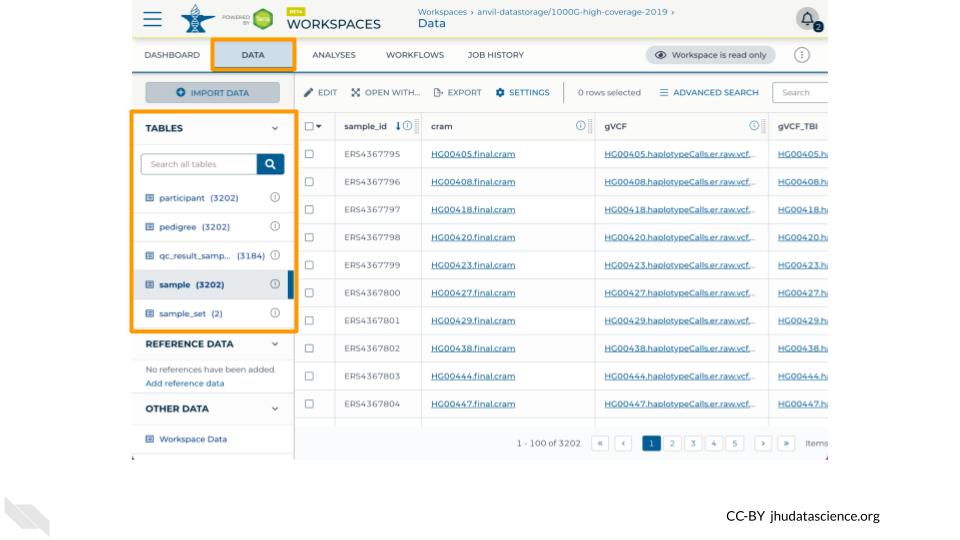
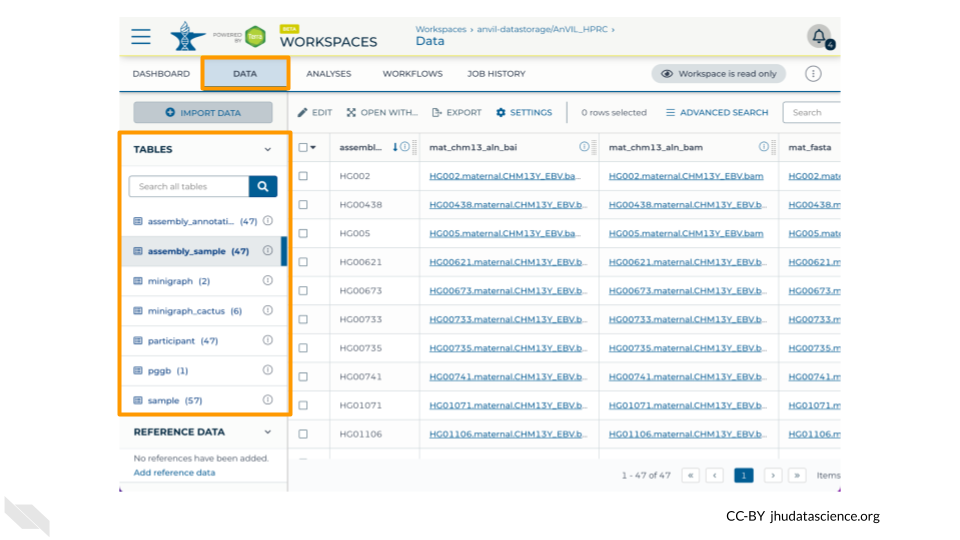
Render bookdown

diff --git a/docs/scale-with-workflows-exercises.html b/docs/scale-with-workflows-exercises.html
@@ -129,7 +129,7 @@
 <li class="chapter" data-level="7" data-path="scale-with-workflows-exercises.html"><a href="scale-with-workflows-exercises.html"><i class="fa fa-check"></i><b>7</b> Exercises</a>
 <ul>
 <li class="chapter" data-level="7.1" data-path="scale-with-workflows-exercises.html"><a href="scale-with-workflows-exercises.html#explore-dataset-catalog"><i class="fa fa-check"></i><b>7.1</b> Explore Dataset Catalog</a></li>
-<li class="chapter" data-level="7.2" data-path="scale-with-workflows-exercises.html"><a href="scale-with-workflows-exercises.html#explore-1000g-workspace"><i class="fa fa-check"></i><b>7.2</b> Explore 1000G Workspace</a>
+<li class="chapter" data-level="7.2" data-path="scale-with-workflows-exercises.html"><a href="scale-with-workflows-exercises.html#explore-hprc-workspace"><i class="fa fa-check"></i><b>7.2</b> Explore HPRC Workspace</a>
 <ul>
 <li class="chapter" data-level="7.2.1" data-path="scale-with-workflows-exercises.html"><a href="scale-with-workflows-exercises.html#what-is-a-workspace"><i class="fa fa-check"></i><b>7.2.1</b> What is a Workspace?</a></li>
 <li class="chapter" data-level="7.2.2" data-path="scale-with-workflows-exercises.html"><a href="scale-with-workflows-exercises.html#dashboard"><i class="fa fa-check"></i><b>7.2.2</b> Dashboard</a></li>
@@ -217,25 +217,25 @@
 <p><img src="02-scale-with-workflows_files/figure-html/1K2qqm02W_zPhrOZsUoKj1FvKWcMO0iHgaiVwvcqMrXc_g24f1d151022_0_4.png" title="Screenshot of AnVIL Dataset Catalog showing Workspaces from the GTEx project.  The &quot;Workspaces&quot; tab is highlighted and has been selected, and the &quot;Terra Workspaces&quot; column is highlighted." alt="Screenshot of AnVIL Dataset Catalog showing Workspaces from the GTEx project.  The &quot;Workspaces&quot; tab is highlighted and has been selected, and the &quot;Terra Workspaces&quot; column is highlighted." width="100%" /></p>
 <p>Note that, if a Workspace contains protected data, you will need to obtain the appropriate permissions before you can open the Workspace. For these GTEx datasets, <code>AnVIL_GTEx_public_data</code> (with consent code NRES) is available to anyone on AnVIL, but other GTEx Workspaces require permission to access.</p>
 </div>
-<div id="explore-1000g-workspace" class="section level2" number="7.2">
-<h2><span class="header-section-number">7.2</span> Explore 1000G Workspace</h2>
-<p>Next we will explore one of the Workspaces from the AnVIL Dataset Catalog, so you can see where the data lives. For this exercise, we will look at data from the <a href="https://www.internationalgenome.org/">1000 Genomes Project</a>.</p>
-<p>You can find the Workspace that contains the data by searching for the “1000G” Consortium in the AnVIL Dataset Catalog and clicking on the Terra Workspace link, or you can navigate there directly through this link: <a href="https://anvil.terra.bio/#workspaces/anvil-datastorage/1000G-high-coverage-2019" class="uri">https://anvil.terra.bio/#workspaces/anvil-datastorage/1000G-high-coverage-2019</a>.</p>
-<p><img src="02-scale-with-workflows_files/figure-html/1K2qqm02W_zPhrOZsUoKj1FvKWcMO0iHgaiVwvcqMrXc_g24f280a88cb_0_12.png" title="Screenshot of AnVIL Dataset Catalog showing the 1000 Genomes Workspace.  The &quot;Consortium&quot; filter is highlighted and &quot;1000G&quot; has been selected; the &quot;Workspaces&quot; tab is highlighted and has been selected, and in the Terra Workspaces column the link to the &quot;1000G-high-coverage-2019&quot; Workspace is highlighted." alt="Screenshot of AnVIL Dataset Catalog showing the 1000 Genomes Workspace.  The &quot;Consortium&quot; filter is highlighted and &quot;1000G&quot; has been selected; the &quot;Workspaces&quot; tab is highlighted and has been selected, and in the Terra Workspaces column the link to the &quot;1000G-high-coverage-2019&quot; Workspace is highlighted." width="100%" /></p>
+<div id="explore-hprc-workspace" class="section level2" number="7.2">
+<h2><span class="header-section-number">7.2</span> Explore HPRC Workspace</h2>
+<p>Next we will explore one of the Workspaces from the AnVIL Dataset Catalog, so you can see where the data lives. For this exercise, we will look at data from the <a href="https://humanpangenome.org/">Human Pangenome Reference Consortium</a>.</p>
+<p>You can find the Workspace that contains the data by searching for the “HPRC” Consortium in the AnVIL Dataset Catalog and clicking on the Terra Workspace link, or you can navigate there directly through this link: <a href="https://anvil.terra.bio/#workspaces/anvil-datastorage/AnVIL_HPRC" class="uri">https://anvil.terra.bio/#workspaces/anvil-datastorage/AnVIL_HPRC</a>.</p>
+<p><img src="02-scale-with-workflows_files/figure-html/1K2qqm02W_zPhrOZsUoKj1FvKWcMO0iHgaiVwvcqMrXc_g251288a74c6_0_85.png" title="Screenshot of AnVIL Dataset Catalog showing the Human Pangenome Reference Consortium Workspace.  The &quot;Consortium&quot; filter is highlighted and &quot;HPRC&quot; has been selected; the &quot;Workspaces&quot; tab is highlighted and has been selected, and in the Terra Workspaces column the link to the &quot;AnVIL_HPRC&quot; Workspace is highlighted." alt="Screenshot of AnVIL Dataset Catalog showing the Human Pangenome Reference Consortium Workspace.  The &quot;Consortium&quot; filter is highlighted and &quot;HPRC&quot; has been selected; the &quot;Workspaces&quot; tab is highlighted and has been selected, and in the Terra Workspaces column the link to the &quot;AnVIL_HPRC&quot; Workspace is highlighted." width="100%" /></p>
 <div id="what-is-a-workspace" class="section level3" number="7.2.1">
 <h3><span class="header-section-number">7.2.1</span> What is a Workspace?</h3>
-<p>Workspaces are the building blocks of projects in Terra. Inside a Workspace, you can run analyses, launch interactive tools like RStudio and Galaxy, store data, and share results. The <code>1000G-high-coverage-2019</code> Workspace is being used to store and share data from the 1000 Genomes Project.</p>
+<p>Workspaces are the building blocks of projects in Terra. Inside a Workspace, you can run analyses, launch interactive tools like RStudio and Galaxy, store data, and share results. The <code>AnVIL_HPRC</code> Workspace is being used to store and share data from the Human Pangenome Reference Consortium.</p>
 <p>Note that, since you are only a “Reader”, you will be unable to do any computations directly in this Workspace. To run analyses, you will need a Workspace of your own.</p>
 <p>Workspaces can serve different purposes. For example, it’s often useful to use one Workspace just for organizing primary data, and then to carry out analyses in a separate Workspace. Storing data in a standalone Workspace helps keep it clean and organized, since it won’t get cluttered up with results and intermediate files from your analyses. It also ensures you can easily see and manage who has access to the data, and allows multiple AnVIL users to use the data without getting in each others’ way.</p>
 </div>
 <div id="dashboard" class="section level3" number="7.2.2">
 <h3><span class="header-section-number">7.2.2</span> Dashboard</h3>
 <p>When you first open a Workspace, you will be directed to the <strong>Dashboard</strong> tab. The Dashboard is like a README for the Workspace - it should contain information to help you understand the purpose and organization of the Workspace. On the right, you can see some basic information about the Workspace such as the usernames of the Owners as well as your permission level for the Workspace. The left side typically contains a description of the Workspace’s contents and purpose.</p>
-<p><img src="02-scale-with-workflows_files/figure-html/1K2qqm02W_zPhrOZsUoKj1FvKWcMO0iHgaiVwvcqMrXc_g24f280a88cb_0_20.png" title="Screenshot of the Dashboard for the 1000 Genomes Workspace." alt="Screenshot of the Dashboard for the 1000 Genomes Workspace." width="100%" /></p>
+<p><img src="02-scale-with-workflows_files/figure-html/1K2qqm02W_zPhrOZsUoKj1FvKWcMO0iHgaiVwvcqMrXc_g251288a74c6_0_94.png" title="Screenshot of the Dashboard for the Human Pangenome Reference Consortium Workspace." alt="Screenshot of the Dashboard for the Human Pangenome Reference Consortium Workspace." width="100%" /></p>
 </div>
 <div id="exercise-1" class="section level3 unnumbered unlisted reflection">
 <h3>Exercise</h3>
-<p><strong>Q1.</strong> What versions of BWA-MEM and GATK were used to process the 1000 Genomes data?</p>
+<p><strong>Q1.</strong> What three strategies were used to build pangenomes?</p>
 <ul>
 <li>Look through the Workspace’s description to see what information has been provided about the data in this Workspace.</li>
 </ul>
@@ -243,13 +243,16 @@
 <div id="data" class="section level3" number="7.2.3">
 <h3><span class="header-section-number">7.2.3</span> Data</h3>
 <p>The <strong>Data</strong> tab contains all the files associated with the Workspace - data, metadata, workflow outputs, etc. Terra provides <strong>Data Tables</strong> to help organize data and results.</p>
-<p><img src="02-scale-with-workflows_files/figure-html/1K2qqm02W_zPhrOZsUoKj1FvKWcMO0iHgaiVwvcqMrXc_g24f280a88cb_0_25.png" title="Screenshot of the Data tab for the 1000 Genomes Workspace.  The &quot;TABLES&quot; menu is expanded and highlighted." alt="Screenshot of the Data tab for the 1000 Genomes Workspace.  The &quot;TABLES&quot; menu is expanded and highlighted." width="100%" /></p>
+<p><img src="02-scale-with-workflows_files/figure-html/1K2qqm02W_zPhrOZsUoKj1FvKWcMO0iHgaiVwvcqMrXc_g24f280a88cb_0_25.png" title="Screenshot of the Data tab for the Human Pangenome Reference Consortium Workspace.  The &quot;TABLES&quot; menu is expanded and highlighted." alt="Screenshot of the Data tab for the Human Pangenome Reference Consortium Workspace.  The &quot;TABLES&quot; menu is expanded and highlighted." width="100%" /></p>
 </div>
 <div id="exercise-2" class="section level3 unnumbered unlisted reflection">
 <h3>Exercise</h3>
-<p>Take a minute to look through the Data Tables for the <code>1000G-high-coverage-2019</code> Workspace.</p>
-<p><strong>Q2.</strong> What types of files are linked to in the Data Table named <code>sample</code>?</p>
-<p><strong>Q3.</strong> What quality control statistics are available in the Data Table named <code>qc_results_sample</code>?</p>
+<p>Take a minute to look through the Data Tables for the <code>AnVIL_HPRC</code> Workspace.</p>
+<p><strong>Q2.</strong> What demographic information is available in the Data Table named <code>participant</code>?</p>
+<p><strong>Q3.</strong> What types of files are linked to in the Data Table named <code>assembly_sample</code>?</p>
+<ul>
+<li>If you’re not sure what these files are from looking at the column and file names, check the Workspace Dashboard for more information about the assemblies.</li>
+</ul>
 </div>
 <p>A key feature of Terra is that <strong>Data Tables can link to files in other Workspaces</strong> or even files that live outside of Terra. This means that you don’t need to maintain your own copy of AnVIL datasets; you can simply link to the data from a Data Table within your own Workspace to use it in your workflows.</p>
 </div>

diff --git a/docs/404.html b/docs/404.html
@@ -129,7 +129,7 @@
 <li class="chapter" data-level="7" data-path="scale-with-workflows-exercises.html"><a href="scale-with-workflows-exercises.html"><i class="fa fa-check"></i><b>7</b> Exercises</a>
 <ul>
 <li class="chapter" data-level="7.1" data-path="scale-with-workflows-exercises.html"><a href="scale-with-workflows-exercises.html#explore-dataset-catalog"><i class="fa fa-check"></i><b>7.1</b> Explore Dataset Catalog</a></li>
-<li class="chapter" data-level="7.2" data-path="scale-with-workflows-exercises.html"><a href="scale-with-workflows-exercises.html#explore-1000g-workspace"><i class="fa fa-check"></i><b>7.2</b> Explore 1000G Workspace</a>
+<li class="chapter" data-level="7.2" data-path="scale-with-workflows-exercises.html"><a href="scale-with-workflows-exercises.html#explore-hprc-workspace"><i class="fa fa-check"></i><b>7.2</b> Explore HPRC Workspace</a>
 <ul>
 <li class="chapter" data-level="7.2.1" data-path="scale-with-workflows-exercises.html"><a href="scale-with-workflows-exercises.html#what-is-a-workspace"><i class="fa fa-check"></i><b>7.2.1</b> What is a Workspace?</a></li>
 <li class="chapter" data-level="7.2.2" data-path="scale-with-workflows-exercises.html"><a href="scale-with-workflows-exercises.html#dashboard"><i class="fa fa-check"></i><b>7.2.2</b> Dashboard</a></li>

diff --git a/docs/exercises.html b/docs/exercises.html
@@ -129,7 +129,7 @@
 <li class="chapter" data-level="7" data-path="scale-with-workflows-exercises.html"><a href="scale-with-workflows-exercises.html"><i class="fa fa-check"></i><b>7</b> Exercises</a>
 <ul>
 <li class="chapter" data-level="7.1" data-path="scale-with-workflows-exercises.html"><a href="scale-with-workflows-exercises.html#explore-dataset-catalog"><i class="fa fa-check"></i><b>7.1</b> Explore Dataset Catalog</a></li>
-<li class="chapter" data-level="7.2" data-path="scale-with-workflows-exercises.html"><a href="scale-with-workflows-exercises.html#explore-1000g-workspace"><i class="fa fa-check"></i><b>7.2</b> Explore 1000G Workspace</a>
+<li class="chapter" data-level="7.2" data-path="scale-with-workflows-exercises.html"><a href="scale-with-workflows-exercises.html#explore-hprc-workspace"><i class="fa fa-check"></i><b>7.2</b> Explore HPRC Workspace</a>
 <ul>
 <li class="chapter" data-level="7.2.1" data-path="scale-with-workflows-exercises.html"><a href="scale-with-workflows-exercises.html#what-is-a-workspace"><i class="fa fa-check"></i><b>7.2.1</b> What is a Workspace?</a></li>
 <li class="chapter" data-level="7.2.2" data-path="scale-with-workflows-exercises.html"><a href="scale-with-workflows-exercises.html#dashboard"><i class="fa fa-check"></i><b>7.2.2</b> Dashboard</a></li>

diff --git a/docs/index.html b/docs/index.html
@@ -129,7 +129,7 @@
 <li class="chapter" data-level="7" data-path="scale-with-workflows-exercises.html"><a href="scale-with-workflows-exercises.html"><i class="fa fa-check"></i><b>7</b> Exercises</a>
 <ul>
 <li class="chapter" data-level="7.1" data-path="scale-with-workflows-exercises.html"><a href="scale-with-workflows-exercises.html#explore-dataset-catalog"><i class="fa fa-check"></i><b>7.1</b> Explore Dataset Catalog</a></li>
-<li class="chapter" data-level="7.2" data-path="scale-with-workflows-exercises.html"><a href="scale-with-workflows-exercises.html#explore-1000g-workspace"><i class="fa fa-check"></i><b>7.2</b> Explore 1000G Workspace</a>
+<li class="chapter" data-level="7.2" data-path="scale-with-workflows-exercises.html"><a href="scale-with-workflows-exercises.html#explore-hprc-workspace"><i class="fa fa-check"></i><b>7.2</b> Explore HPRC Workspace</a>
 <ul>
 <li class="chapter" data-level="7.2.1" data-path="scale-with-workflows-exercises.html"><a href="scale-with-workflows-exercises.html#what-is-a-workspace"><i class="fa fa-check"></i><b>7.2.1</b> What is a Workspace?</a></li>
 <li class="chapter" data-level="7.2.2" data-path="scale-with-workflows-exercises.html"><a href="scale-with-workflows-exercises.html#dashboard"><i class="fa fa-check"></i><b>7.2.2</b> Dashboard</a></li>

diff --git a/docs/instructor-guide.html b/docs/instructor-guide.html
@@ -129,7 +129,7 @@
 <li class="chapter" data-level="7" data-path="scale-with-workflows-exercises.html"><a href="scale-with-workflows-exercises.html"><i class="fa fa-check"></i><b>7</b> Exercises</a>
 <ul>
 <li class="chapter" data-level="7.1" data-path="scale-with-workflows-exercises.html"><a href="scale-with-workflows-exercises.html#explore-dataset-catalog"><i class="fa fa-check"></i><b>7.1</b> Explore Dataset Catalog</a></li>
-<li class="chapter" data-level="7.2" data-path="scale-with-workflows-exercises.html"><a href="scale-with-workflows-exercises.html#explore-1000g-workspace"><i class="fa fa-check"></i><b>7.2</b> Explore 1000G Workspace</a>
+<li class="chapter" data-level="7.2" data-path="scale-with-workflows-exercises.html"><a href="scale-with-workflows-exercises.html#explore-hprc-workspace"><i class="fa fa-check"></i><b>7.2</b> Explore HPRC Workspace</a>
 <ul>
 <li class="chapter" data-level="7.2.1" data-path="scale-with-workflows-exercises.html"><a href="scale-with-workflows-exercises.html#what-is-a-workspace"><i class="fa fa-check"></i><b>7.2.1</b> What is a Workspace?</a></li>
 <li class="chapter" data-level="7.2.2" data-path="scale-with-workflows-exercises.html"><a href="scale-with-workflows-exercises.html#dashboard"><i class="fa fa-check"></i><b>7.2.2</b> Dashboard</a></li>

diff --git a/docs/overview.html b/docs/overview.html
@@ -129,7 +129,7 @@
 <li class="chapter" data-level="7" data-path="scale-with-workflows-exercises.html"><a href="scale-with-workflows-exercises.html"><i class="fa fa-check"></i><b>7</b> Exercises</a>
 <ul>
 <li class="chapter" data-level="7.1" data-path="scale-with-workflows-exercises.html"><a href="scale-with-workflows-exercises.html#explore-dataset-catalog"><i class="fa fa-check"></i><b>7.1</b> Explore Dataset Catalog</a></li>
-<li class="chapter" data-level="7.2" data-path="scale-with-workflows-exercises.html"><a href="scale-with-workflows-exercises.html#explore-1000g-workspace"><i class="fa fa-check"></i><b>7.2</b> Explore 1000G Workspace</a>
+<li class="chapter" data-level="7.2" data-path="scale-with-workflows-exercises.html"><a href="scale-with-workflows-exercises.html#explore-hprc-workspace"><i class="fa fa-check"></i><b>7.2</b> Explore HPRC Workspace</a>
 <ul>
 <li class="chapter" data-level="7.2.1" data-path="scale-with-workflows-exercises.html"><a href="scale-with-workflows-exercises.html#what-is-a-workspace"><i class="fa fa-check"></i><b>7.2.1</b> What is a Workspace?</a></li>
 <li class="chapter" data-level="7.2.2" data-path="scale-with-workflows-exercises.html"><a href="scale-with-workflows-exercises.html#dashboard"><i class="fa fa-check"></i><b>7.2.2</b> Dashboard</a></li>

diff --git a/docs/preparation.html b/docs/preparation.html
@@ -129,7 +129,7 @@
 <li class="chapter" data-level="7" data-path="scale-with-workflows-exercises.html"><a href="scale-with-workflows-exercises.html"><i class="fa fa-check"></i><b>7</b> Exercises</a>
 <ul>
 <li class="chapter" data-level="7.1" data-path="scale-with-workflows-exercises.html"><a href="scale-with-workflows-exercises.html#explore-dataset-catalog"><i class="fa fa-check"></i><b>7.1</b> Explore Dataset Catalog</a></li>
-<li class="chapter" data-level="7.2" data-path="scale-with-workflows-exercises.html"><a href="scale-with-workflows-exercises.html#explore-1000g-workspace"><i class="fa fa-check"></i><b>7.2</b> Explore 1000G Workspace</a>
+<li class="chapter" data-level="7.2" data-path="scale-with-workflows-exercises.html"><a href="scale-with-workflows-exercises.html#explore-hprc-workspace"><i class="fa fa-check"></i><b>7.2</b> Explore HPRC Workspace</a>
 <ul>
 <li class="chapter" data-level="7.2.1" data-path="scale-with-workflows-exercises.html"><a href="scale-with-workflows-exercises.html#what-is-a-workspace"><i class="fa fa-check"></i><b>7.2.1</b> What is a Workspace?</a></li>
 <li class="chapter" data-level="7.2.2" data-path="scale-with-workflows-exercises.html"><a href="scale-with-workflows-exercises.html#dashboard"><i class="fa fa-check"></i><b>7.2.2</b> Dashboard</a></li>

diff --git a/docs/scale-with-workflows-instructor-guide.html b/docs/scale-with-workflows-instructor-guide.html
@@ -129,7 +129,7 @@
 <li class="chapter" data-level="7" data-path="scale-with-workflows-exercises.html"><a href="scale-with-workflows-exercises.html"><i class="fa fa-check"></i><b>7</b> Exercises</a>
 <ul>
 <li class="chapter" data-level="7.1" data-path="scale-with-workflows-exercises.html"><a href="scale-with-workflows-exercises.html#explore-dataset-catalog"><i class="fa fa-check"></i><b>7.1</b> Explore Dataset Catalog</a></li>
-<li class="chapter" data-level="7.2" data-path="scale-with-workflows-exercises.html"><a href="scale-with-workflows-exercises.html#explore-1000g-workspace"><i class="fa fa-check"></i><b>7.2</b> Explore 1000G Workspace</a>
+<li class="chapter" data-level="7.2" data-path="scale-with-workflows-exercises.html"><a href="scale-with-workflows-exercises.html#explore-hprc-workspace"><i class="fa fa-check"></i><b>7.2</b> Explore HPRC Workspace</a>
 <ul>
 <li class="chapter" data-level="7.2.1" data-path="scale-with-workflows-exercises.html"><a href="scale-with-workflows-exercises.html#what-is-a-workspace"><i class="fa fa-check"></i><b>7.2.1</b> What is a Workspace?</a></li>
 <li class="chapter" data-level="7.2.2" data-path="scale-with-workflows-exercises.html"><a href="scale-with-workflows-exercises.html#dashboard"><i class="fa fa-check"></i><b>7.2.2</b> Dashboard</a></li>

diff --git a/docs/scale-with-workflows-overview.html b/docs/scale-with-workflows-overview.html
@@ -129,7 +129,7 @@
 <li class="chapter" data-level="7" data-path="scale-with-workflows-exercises.html"><a href="scale-with-workflows-exercises.html"><i class="fa fa-check"></i><b>7</b> Exercises</a>
 <ul>
 <li class="chapter" data-level="7.1" data-path="scale-with-workflows-exercises.html"><a href="scale-with-workflows-exercises.html#explore-dataset-catalog"><i class="fa fa-check"></i><b>7.1</b> Explore Dataset Catalog</a></li>
-<li class="chapter" data-level="7.2" data-path="scale-with-workflows-exercises.html"><a href="scale-with-workflows-exercises.html#explore-1000g-workspace"><i class="fa fa-check"></i><b>7.2</b> Explore 1000G Workspace</a>
+<li class="chapter" data-level="7.2" data-path="scale-with-workflows-exercises.html"><a href="scale-with-workflows-exercises.html#explore-hprc-workspace"><i class="fa fa-check"></i><b>7.2</b> Explore HPRC Workspace</a>
 <ul>
 <li class="chapter" data-level="7.2.1" data-path="scale-with-workflows-exercises.html"><a href="scale-with-workflows-exercises.html#what-is-a-workspace"><i class="fa fa-check"></i><b>7.2.1</b> What is a Workspace?</a></li>
 <li class="chapter" data-level="7.2.2" data-path="scale-with-workflows-exercises.html"><a href="scale-with-workflows-exercises.html#dashboard"><i class="fa fa-check"></i><b>7.2.2</b> Dashboard</a></li>

diff --git a/docs/scale-with-workflows-preparation.html b/docs/scale-with-workflows-preparation.html
@@ -129,7 +129,7 @@
 <li class="chapter" data-level="7" data-path="scale-with-workflows-exercises.html"><a href="scale-with-workflows-exercises.html"><i class="fa fa-check"></i><b>7</b> Exercises</a>
 <ul>
 <li class="chapter" data-level="7.1" data-path="scale-with-workflows-exercises.html"><a href="scale-with-workflows-exercises.html#explore-dataset-catalog"><i class="fa fa-check"></i><b>7.1</b> Explore Dataset Catalog</a></li>
-<li class="chapter" data-level="7.2" data-path="scale-with-workflows-exercises.html"><a href="scale-with-workflows-exercises.html#explore-1000g-workspace"><i class="fa fa-check"></i><b>7.2</b> Explore 1000G Workspace</a>
+<li class="chapter" data-level="7.2" data-path="scale-with-workflows-exercises.html"><a href="scale-with-workflows-exercises.html#explore-hprc-workspace"><i class="fa fa-check"></i><b>7.2</b> Explore HPRC Workspace</a>
 <ul>
 <li class="chapter" data-level="7.2.1" data-path="scale-with-workflows-exercises.html"><a href="scale-with-workflows-exercises.html#what-is-a-workspace"><i class="fa fa-check"></i><b>7.2.1</b> What is a Workspace?</a></li>
 <li class="chapter" data-level="7.2.2" data-path="scale-with-workflows-exercises.html"><a href="scale-with-workflows-exercises.html#dashboard"><i class="fa fa-check"></i><b>7.2.2</b> Dashboard</a></li>

diff --git a/docs/02-scale-with-workflows.md b/docs/02-scale-with-workflows.md
@@ -154,17 +154,17 @@ Now you know how to find AnVIL datasets!  To access the data in these datasets, 
 Note that, if a Workspace contains protected data, you will need to obtain the appropriate permissions before you can open the Workspace.  For these GTEx datasets, `AnVIL_GTEx_public_data` (with consent code NRES) is available to anyone on AnVIL, but other GTEx Workspaces require permission to access.
 
 
-## Explore 1000G Workspace
+## Explore HPRC Workspace
 
-Next we will explore one of the Workspaces from the AnVIL Dataset Catalog, so you can see where the data lives.  For this exercise, we will look at data from the [1000 Genomes Project](https://www.internationalgenome.org/).
+Next we will explore one of the Workspaces from the AnVIL Dataset Catalog, so you can see where the data lives.  For this exercise, we will look at data from the [Human Pangenome Reference Consortium](https://humanpangenome.org/).
 
-You can find the Workspace that contains the data by searching for the "1000G" Consortium in the AnVIL Dataset Catalog and clicking on the Terra Workspace link, or you can navigate there directly through this link: https://anvil.terra.bio/#workspaces/anvil-datastorage/1000G-high-coverage-2019.
+You can find the Workspace that contains the data by searching for the "HPRC" Consortium in the AnVIL Dataset Catalog and clicking on the Terra Workspace link, or you can navigate there directly through this link: https://anvil.terra.bio/#workspaces/anvil-datastorage/AnVIL_HPRC.
 
-<img src="02-scale-with-workflows_files/figure-html//1K2qqm02W_zPhrOZsUoKj1FvKWcMO0iHgaiVwvcqMrXc_g24f280a88cb_0_12.png" title="Screenshot of AnVIL Dataset Catalog showing the 1000 Genomes Workspace.  The &quot;Consortium&quot; filter is highlighted and &quot;1000G&quot; has been selected; the &quot;Workspaces&quot; tab is highlighted and has been selected, and in the Terra Workspaces column the link to the &quot;1000G-high-coverage-2019&quot; Workspace is highlighted." alt="Screenshot of AnVIL Dataset Catalog showing the 1000 Genomes Workspace.  The &quot;Consortium&quot; filter is highlighted and &quot;1000G&quot; has been selected; the &quot;Workspaces&quot; tab is highlighted and has been selected, and in the Terra Workspaces column the link to the &quot;1000G-high-coverage-2019&quot; Workspace is highlighted." width="100%" />
+<img src="02-scale-with-workflows_files/figure-html//1K2qqm02W_zPhrOZsUoKj1FvKWcMO0iHgaiVwvcqMrXc_g251288a74c6_0_85.png" title="Screenshot of AnVIL Dataset Catalog showing the Human Pangenome Reference Consortium Workspace.  The &quot;Consortium&quot; filter is highlighted and &quot;HPRC&quot; has been selected; the &quot;Workspaces&quot; tab is highlighted and has been selected, and in the Terra Workspaces column the link to the &quot;AnVIL_HPRC&quot; Workspace is highlighted." alt="Screenshot of AnVIL Dataset Catalog showing the Human Pangenome Reference Consortium Workspace.  The &quot;Consortium&quot; filter is highlighted and &quot;HPRC&quot; has been selected; the &quot;Workspaces&quot; tab is highlighted and has been selected, and in the Terra Workspaces column the link to the &quot;AnVIL_HPRC&quot; Workspace is highlighted." width="100%" />
 
 ### What is a Workspace?
 
-Workspaces are the building blocks of projects in Terra. Inside a Workspace, you can run analyses, launch interactive tools like RStudio and Galaxy, store data, and share results.  The `1000G-high-coverage-2019` Workspace is being used to store and share data from the 1000 Genomes Project.
+Workspaces are the building blocks of projects in Terra. Inside a Workspace, you can run analyses, launch interactive tools like RStudio and Galaxy, store data, and share results.  The `AnVIL_HPRC` Workspace is being used to store and share data from the Human Pangenome Reference Consortium.
 
 Note that, since you are only a "Reader", you will be unable to do any computations directly in this Workspace.  To run analyses, you will need a Workspace of your own.
 
@@ -175,12 +175,12 @@ Workspaces can serve different purposes.  For example, it's often useful to use 
 
 When you first open a Workspace, you will be directed to the **Dashboard** tab.  The Dashboard is like a README for the Workspace - it should contain information to help you understand the purpose and organization of the Workspace.  On the right, you can see some basic information about the Workspace such as the usernames of the Owners as well as your permission level for the Workspace.  The left side typically contains a description of the Workspace's contents and purpose.
 
-<img src="02-scale-with-workflows_files/figure-html//1K2qqm02W_zPhrOZsUoKj1FvKWcMO0iHgaiVwvcqMrXc_g24f280a88cb_0_20.png" title="Screenshot of the Dashboard for the 1000 Genomes Workspace." alt="Screenshot of the Dashboard for the 1000 Genomes Workspace." width="100%" />
+<img src="02-scale-with-workflows_files/figure-html//1K2qqm02W_zPhrOZsUoKj1FvKWcMO0iHgaiVwvcqMrXc_g251288a74c6_0_94.png" title="Screenshot of the Dashboard for the Human Pangenome Reference Consortium Workspace." alt="Screenshot of the Dashboard for the Human Pangenome Reference Consortium Workspace." width="100%" />
 
 :::{.reflection}
 ### Exercise {- .unlisted}
 
-**Q1.** What versions of BWA-MEM and GATK were used to process the 1000 Genomes data?
+**Q1.** What three strategies were used to build pangenomes?
 
 - Look through the Workspace's description to see what information has been provided about the data in this Workspace.
 
@@ -190,16 +190,18 @@ When you first open a Workspace, you will be directed to the **Dashboard** tab. 
 
 The **Data** tab contains all the files associated with the Workspace - data, metadata, workflow outputs, etc.  Terra provides **Data Tables** to help organize data and results.
 
-<img src="02-scale-with-workflows_files/figure-html//1K2qqm02W_zPhrOZsUoKj1FvKWcMO0iHgaiVwvcqMrXc_g24f280a88cb_0_25.png" title="Screenshot of the Data tab for the 1000 Genomes Workspace.  The &quot;TABLES&quot; menu is expanded and highlighted." alt="Screenshot of the Data tab for the 1000 Genomes Workspace.  The &quot;TABLES&quot; menu is expanded and highlighted." width="100%" />
+<img src="02-scale-with-workflows_files/figure-html//1K2qqm02W_zPhrOZsUoKj1FvKWcMO0iHgaiVwvcqMrXc_g24f280a88cb_0_25.png" title="Screenshot of the Data tab for the Human Pangenome Reference Consortium Workspace.  The &quot;TABLES&quot; menu is expanded and highlighted." alt="Screenshot of the Data tab for the Human Pangenome Reference Consortium Workspace.  The &quot;TABLES&quot; menu is expanded and highlighted." width="100%" />
 
 :::{.reflection}
 ### Exercise {- .unlisted}
 
-Take a minute to look through the Data Tables for the `1000G-high-coverage-2019` Workspace.
+Take a minute to look through the Data Tables for the `AnVIL_HPRC` Workspace.
 
-**Q2.** What types of files are linked to in the Data Table named `sample`?
+**Q2.** What demographic information is available in the Data Table named `participant`?
 
-**Q3.** What quality control statistics are available in the Data Table named `qc_results_sample`?
+**Q3.** What types of files are linked to in the Data Table named `assembly_sample`?
+
+- If you're not sure what these files are from looking at the column and file names, check the Workspace Dashboard for more information about the assemblies.
 
 :::
 
